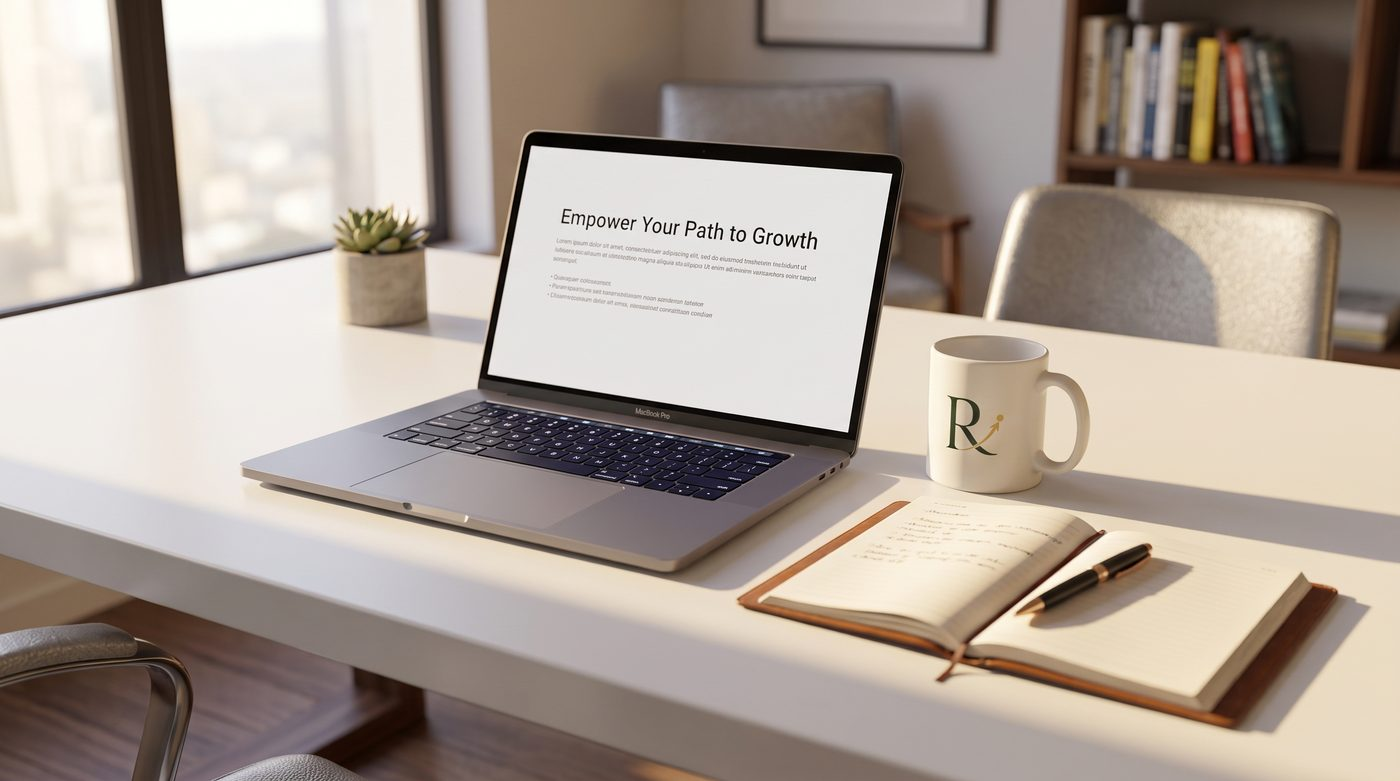
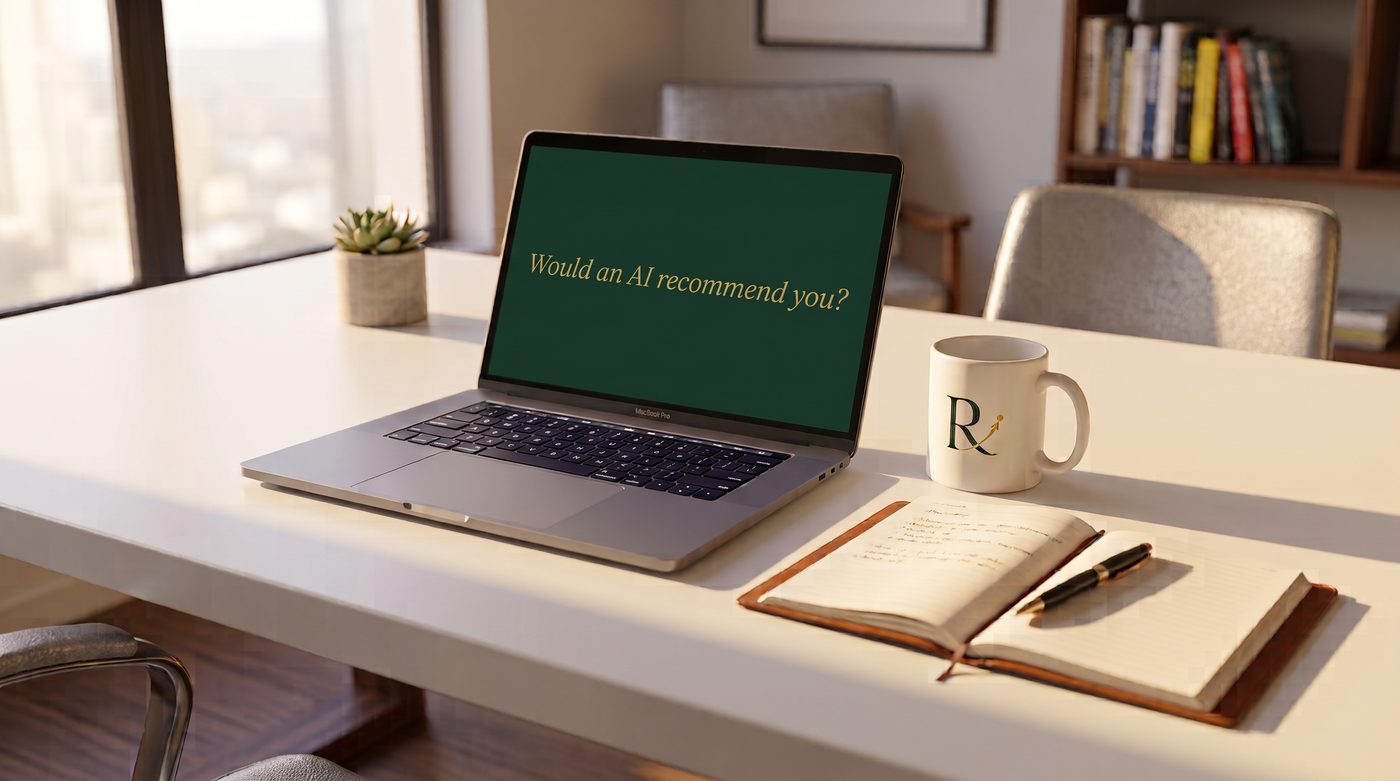
Replace the home hero with the AI-question render
Installs the new photograph: the laptop screen now carries "Would an AI
recommend you?" in gold italic on a forest green screen. Re-encoded from
2752px/2.0MB to 2400px/215KB with the 1400px companion at 98KB.

Recentres the crop. The previous photograph used frame--focus-right (58%) to
save the monogrammed mug from a centre crop, but the screen now carries the
message, and it spans 35.0%-63.5% of the frame. Only a focal point between 43%
and 55% keeps that screen whole at every breakpoint; 58% clipped the first word
at 1100px, where the crop keeps just 40% of the width. The default centre is
correct for this image, so the modifier is dropped rather than retuned.

Alt text now includes the on-screen line. It is meaningful content rather than
decoration, so a screen reader should get it.

The photography README records the measured screen bounds and the safe focal
range, so replacing this image again starts from the constraint rather than
rediscovering it.

Verified at 1440, 1280, 1100, 900 and 390px: the screen is fully inside the
crop at every width, the correct source is served, and hover effects, masked
headings and the contrast sweep are unchanged.

Claude-Session: https://claude.ai/code/session_018ujdEjjgSgqRxVevwPgMkU

diff --git a/index.html b/index.html
@@ -59,7 +59,7 @@
       </div>
     </div>
     <div class="hero__media">
-      <figure class="frame frame--desk frame--focus-right"><img src="assets/img/hero-workspace.jpg" alt="A laptop, a RankForImpact mug and an open notebook on a bright desk beside a window" srcset="assets/img/hero-workspace-1400.jpg 1400w, assets/img/hero-workspace.jpg 2400w" sizes="(max-width: 900px) 100vw, 50vw" loading="eager" fetchpriority="high" decoding="async"><div class="frame__ph"><span class="frame__label">Hero photograph</span><span class="frame__note">Bright desk by a window: open laptop, monogrammed mug, notebook and pen.</span></div></figure>
+      <figure class="frame frame--desk"><img src="assets/img/hero-workspace.jpg" alt="A laptop on a bright desk displaying the words “Would an AI recommend you?”, beside a RankForImpact mug and an open notebook" srcset="assets/img/hero-workspace-1400.jpg 1400w, assets/img/hero-workspace.jpg 2400w" sizes="(max-width: 900px) 100vw, 50vw" loading="eager" fetchpriority="high" decoding="async"><div class="frame__ph"><span class="frame__label">Hero photograph</span><span class="frame__note">Bright desk by a window: laptop showing “Would an AI recommend you?”, monogrammed mug, notebook and pen.</span></div></figure>
     </div>
   </div>
 </section>

diff --git a/assets/img/README.md b/assets/img/README.md
@@ -35,7 +35,7 @@ adding one without the other works.
 
 | File | Ratio | Shot |
 | --- | --- | --- |
-| `hero-workspace.jpg` | 16:9 | **Supplied.** Bright desk by a window: open laptop, monogrammed mug, notebook and pen. 2400×1340, 207 KB. `hero-workspace-1400.jpg` is the 1400px companion served via `srcset` below ~1400px viewports. |
+| `hero-workspace.jpg` | 16:9 | **Supplied.** Bright desk by a window: laptop showing “Would an AI recommend you?” in gold italic on a forest green screen, monogrammed mug, notebook and pen. 2400×1340, 215 KB. `hero-workspace-1400.jpg` is the 1400px companion served via `srcset`. |
 | `mission-focus.jpg` | 1:1 | Woman at a laptop in a bright open-plan office, candid, natural light. |
 | `mission-collaboration.jpg` | 1:1 | Two colleagues mid-conversation across a table, warm and unposed. |
 | `mission-landscape.jpg` | 1:1 | Green valley and river from above, golden hour, misty ridgelines. |
@@ -82,11 +82,16 @@ in brand tones. Replace alongside the placeholder article copy.
 ## Cropping a wide photograph
 
 The desktop hero column is nearly portrait, so a 16:9 photograph loses roughly
-half its width to `object-fit: cover`. When the subject does not survive a centre
-crop, add `frame--focus-right` or `frame--focus-left` to the frame — they shift
-the `--focus` custom property rather than needing new markup. The home hero uses
-`frame--focus-right` (58%) so the monogrammed mug stays fully in shot down to
-about 1100px, where a centre crop bisected it.
+half its width to `object-fit: cover` — at 1100px only the middle 40% survives.
+When the subject does not sit at the centre of what is kept, add
+`frame--focus-right` or `frame--focus-left` to the frame; they shift the
+`--focus` custom property rather than needing new markup.
+
+The home hero stays at the default centre because its laptop screen carries the
+message and spans 35.0%–63.5% of the frame. Only a focal point between **43%
+and 55%** keeps that screen whole at every breakpoint — anything further right
+clips the first word. If you replace this photograph, measure where the screen
+sits before changing the focal point.
 
 ## Export guidance
 
